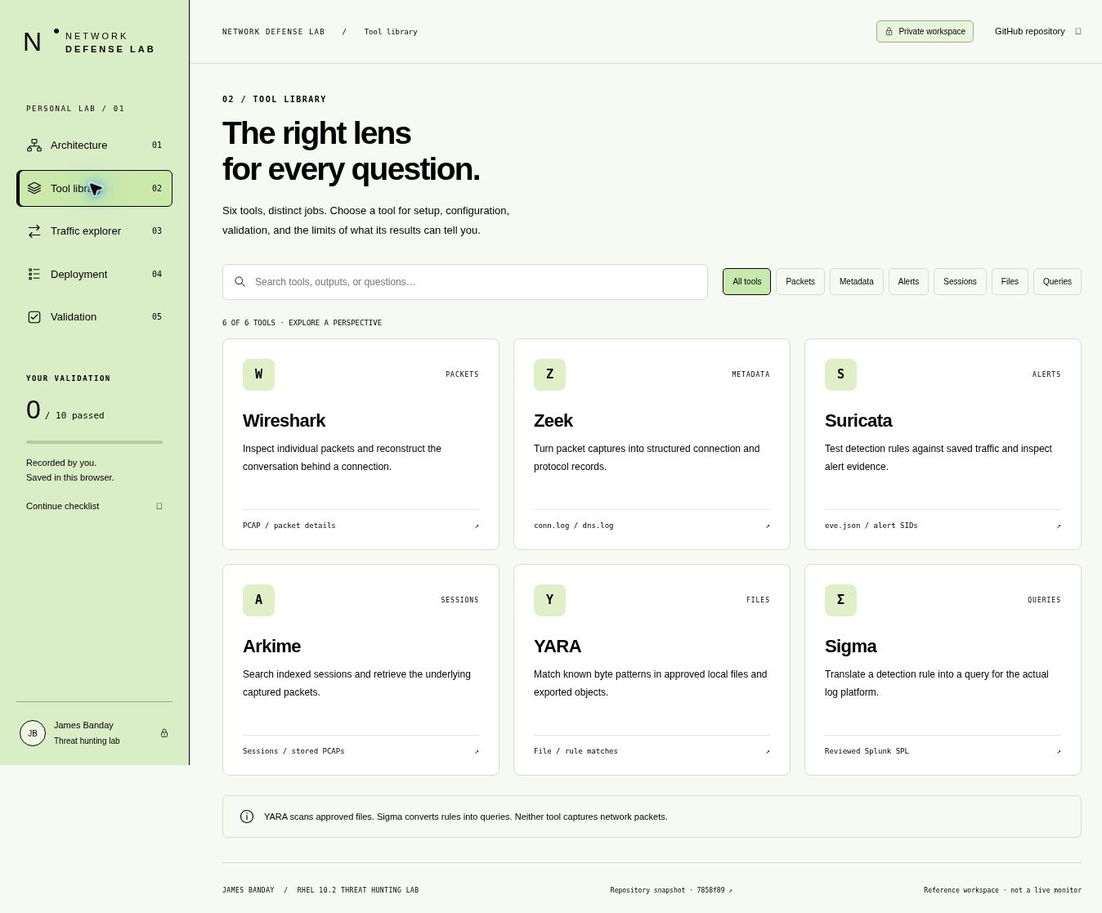
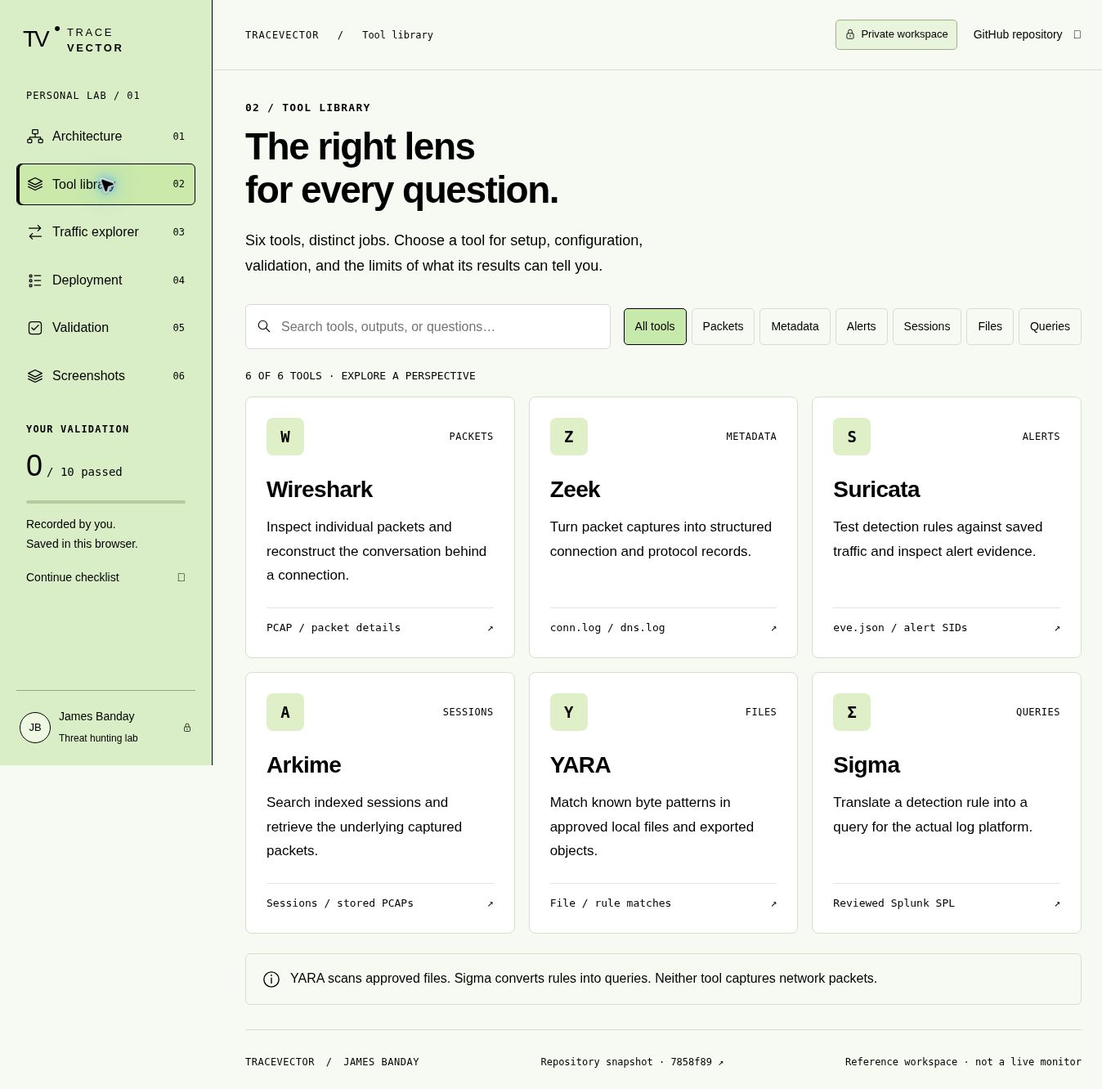
Rename interactive lab to TraceVector and refresh screenshots
Update the repository homepage, interactive lab guide, and website source with TraceVector branding, larger black text, and the light green design. Replace all five screenshots and add an in-site screenshot gallery while preserving private hosting and pending lab validation status.

diff --git a/website/network-defense-lab/styles.css b/website/network-defense-lab/styles.css
@@ -11,3 +11,10 @@
 body{color:#000}body h1,body h2,body h3,body p,body small,body label,body button,body input,body select,body textarea,body summary,body a,body code,body pre,body li,body strong,body .eyebrow,body .mono{color:#000}body svg{color:#000}
 
 .kali-node svg{color:#000}
+
+/* Readable type: larger body text, controls, labels, and topology. */
+body{font-size:18px;line-height:1.6}.sidebar{width:260px;overflow-y:auto;padding:28px 20px 0}.app-shell{margin-left:260px}.brand{font-size:13px;letter-spacing:2.6px}.brand-icon{font-size:28px;letter-spacing:-3px;min-width:42px}.workspace-label{font-size:12px;letter-spacing:1px;margin-top:38px}nav{gap:7px}nav a{font-size:16px;gap:11px;padding:12px}.nav-icon svg{width:20px;height:20px}.nav-number{font-size:12px}.sidebar-progress{margin-top:32px}.sidebar-progress .eyebrow{font-size:12px}.progress-total strong{font-size:36px}.progress-total>span,.sidebar-progress p,.sidebar-progress>a{font-size:14px}.sidebar-bottom{gap:10px}.sidebar-bottom strong{font-size:14px}.sidebar-bottom div>span{font-size:12px}.avatar{width:38px;height:38px;font-size:13px;flex-shrink:0}.topbar{min-height:86px;height:auto;padding-top:18px;padding-bottom:18px}.breadcrumbs{font-size:12px;letter-spacing:1px}.private-badge{font-size:13px;padding:7px 10px}.private-badge svg{width:14px;height:14px}.repo-link{font-size:14px}.top-actions{gap:20px}.eyebrow{font-size:13px;letter-spacing:1.2px}h1,.compact h1{font-size:46px;line-height:1.15;letter-spacing:-1.5px}h2{font-size:26px}h3{font-size:21px}.lead{font-size:18px;line-height:1.75;margin-top:20px}.primary-button,.outline-button{font-size:16px;min-height:48px;padding:12px 18px}.overview-stats{grid-template-columns:1.3fr 1fr 1fr 1.2fr;padding:22px 0}.overview-stats>div{padding:0 17px;gap:12px;min-width:0}.overview-stats strong{font-size:16px;overflow-wrap:anywhere}.overview-stats div div>span{font-size:14px;line-height:1.6}.stat-icon svg{width:25px;height:25px}.section-title h2{font-size:25px}.section-title p{font-size:16px}.subtle-tag{font-size:12px;letter-spacing:.6px;padding:6px 9px}.architecture-grid{grid-template-columns:minmax(0,1fr) 320px;gap:20px}.map-toolbar{font-size:12px;padding:18px}.network-map{height:490px}.map-node{min-height:172px;padding:17px 8px}.map-node strong{font-size:16px;line-height:1.4;letter-spacing:0;overflow-wrap:anywhere}.map-node small{font-size:14px;line-height:1.5}.map-node .node-role{font-size:13px;line-height:1.5;white-space:normal}.node-icon{width:30px;height:30px;margin-bottom:12px}.node-icon svg{width:27px;height:27px}.splunk-mark{font-size:25px}.host-node{min-height:84px;padding:13px 12px;gap:12px;width:48%;left:26%}.host-node small{font-size:12px}.map-caption{font-size:11px;top:31%;letter-spacing:.7px}.map-lower{bottom:20px;gap:10px}.kali-node{padding:11px 10px;gap:8px;flex-wrap:wrap;justify-content:center}.kali-node strong{font-size:13px}.kali-node small{font-size:12px}.kali-node svg{width:18px;height:18px}.gateway-node{font-size:12px;padding:10px}.map-legend{font-size:12px;gap:12px;flex-wrap:wrap;padding:14px 17px;line-height:1.6}.map-legend span:last-child{margin-left:0}.node-detail{padding:24px;min-width:0}.node-detail .eyebrow{font-size:12px;line-height:1.6}.node-detail h3{font-size:21px;line-height:1.4;margin-top:17px}.address-tag{font-size:15px}.node-description{font-size:16px;line-height:1.8}.node-detail .detail-label{font-size:12px;line-height:1.6}.connection-item{font-size:15px;align-items:start;padding:10px 0;flex-wrap:wrap;gap:5px 10px}.connection-item code{font-size:14px;overflow-wrap:anywhere}.node-detail .text-link{font-size:15px;padding-top:22px}.visibility-note{padding:20px 22px;align-items:start}.visibility-note strong{font-size:17px}.visibility-note p{font-size:16px;line-height:1.8;max-width:none}.visibility-note>a{font-size:15px;align-self:center}.note-icon svg{width:25px;height:25px}.lower-grid .eyebrow{font-size:12px}.lower-grid h2{font-size:24px}.lower-grid p{font-size:16px;line-height:1.8;max-width:none}.workflow-pills{gap:8px}.workflow-pills span{font-size:13px;padding:5px 9px}.text-link{font-size:16px;gap:12px}.lower-grid article{padding:25px}.light-note{font-size:16px;line-height:1.8}.light-note svg{min-width:22px;width:22px;height:22px}footer{font-size:12px;line-height:1.7;flex-wrap:wrap;gap:15px}.search-box input{font-size:16px;padding:14px 14px 14px 43px}.search-box svg{top:18px;width:18px;height:18px}.filter-bar{gap:16px}.chip{font-size:14px;padding:10px 13px;min-height:42px}.results-label{font-size:13px;line-height:1.6}.tool-card{padding:25px;min-height:320px}.tool-mark{width:46px;height:46px;font-size:19px}.tool-category{font-size:12px;letter-spacing:.5px}.tool-card h2{font-size:28px}.tool-card p{font-size:17px;line-height:1.75}.tool-output{font-size:13px;line-height:1.6}.select-label{font-size:15px}.select-label select,.status-select{font-size:15px;padding:10px 13px;min-height:44px}.flow-item{padding:21px}.flow-item-top{font-size:17px;line-height:1.6;flex-wrap:wrap}.flow-port{font-size:13px}.flow-item small{font-size:15px;line-height:1.6}.flow-item .kind-tag{font-size:12px;letter-spacing:.3px}.flow-detail{padding:28px;min-height:500px}.flow-detail .eyebrow{font-size:12px;line-height:1.6}.flow-detail h2{font-size:29px}.flow-pair{gap:15px}.flow-pair strong{font-size:16px;overflow-wrap:anywhere}.flow-pair span{font-size:14px}.flow-detail p,.flow-detail ul{font-size:17px;line-height:1.8}.flow-detail h3{font-size:13px}.flow-detail .inline-warning{font-size:15px;line-height:1.8}.deployment-summary{gap:22px}.mini-label{font-size:12px}.deployment-summary strong{font-size:17px}.deployment-summary>span{font-size:14px}.phase summary{padding:24px;gap:20px}.phase-number{font-size:21px}.phase-title strong{font-size:19px;line-height:1.5}.phase-title small{font-size:14px;line-height:1.7}.phase-badge{font-size:13px;padding:5px 9px}.phase-content{padding:25px 28px 28px 75px}.phase-content p,.phase-content ul{font-size:17px;line-height:1.8}.review-toggle{font-size:16px;line-height:1.6}.review-toggle input{width:19px;height:19px}.phase-actions .text-link{font-size:16px}.validation-stat{padding:23px}.validation-stat span{font-size:16px}.validation-stat strong{font-size:32px}.validation-item{padding:23px}.validation-index{font-size:15px;width:28px}.validation-main h3{font-size:18px;line-height:1.6}.validation-main p{font-size:16px;line-height:1.8;max-width:none}.validation-note-toggle,.text-button{font-size:15px}.note-editor label{font-size:14px;line-height:1.7}.note-editor textarea{font-size:16px;line-height:1.7;padding:12px;min-height:100px}.note-meta{font-size:12px;line-height:1.8;gap:15px}.empty-state{font-size:17px}.toast{font-size:16px;max-width:90%;left:calc(50% + 130px)}dialog{max-width:820px;padding:30px}.dialog-tool-heading h2{font-size:32px}.dialog-tool-heading p{font-size:15px}.dialog-description,.tool-stage p{font-size:17px;line-height:1.8}.dialog-tab{font-size:16px}.tool-stage h3{font-size:20px}.code-box pre{font-size:14px;line-height:1.8}.copy-button{font-size:13px;padding:5px 10px}.tool-limit{font-size:16px;line-height:1.8}.dialog-source{font-size:16px;gap:20px;flex-wrap:wrap}.dialog-source .text-link{font-size:16px}.icon-button{width:38px;height:38px;font-size:27px}#reset-dialog{max-width:560px}#reset-dialog p{font-size:17px}.screenshot-grid{display:grid;grid-template-columns:repeat(2,minmax(0,1fr));gap:24px;margin-top:28px}.screenshot-card{background:#fff;border:1px solid var(--line);border-radius:8px;overflow:hidden}.screenshot-card>a{display:block;background:#edf6e3;border-bottom:1px solid var(--line)}.screenshot-card img{width:100%;height:300px;display:block;object-fit:cover;object-position:top}.screenshot-card>div{padding:24px}.screenshot-card h2{font-size:24px}.screenshot-card p{font-size:17px;line-height:1.8;margin:10px 0 17px}.screenshot-card a:focus-visible{outline-offset:-4px}
+@media(min-width:1500px){main{padding:45px 55px 0}.network-map{height:500px}.architecture-grid{grid-template-columns:minmax(0,1fr) 350px}.node-detail{padding:27px}.map-node strong{font-size:17px}.map-node small{font-size:15px}.map-node .node-role{font-size:14px}.host-node small{font-size:13px}.map-caption{font-size:12px}.kali-node strong{font-size:15px}.kali-node small{font-size:13px}.gateway-node{font-size:14px}.map-legend{font-size:13px}.overview-stats strong{font-size:18px}.overview-stats div div>span{font-size:15px}}
+@media(max-width:1250px){.architecture-grid{grid-template-columns:minmax(0,1fr) 290px}.topbar{padding-left:28px;padding-right:28px}.top-actions{gap:12px}.overview-stats{grid-template-columns:1fr 1fr;padding:0}.overview-stats>div{padding:18px;border-bottom:1px solid var(--line)}.overview-stats>div:nth-child(2){border-right:0}.overview-stats>div:nth-last-child(-n+2){border-bottom:0}.tool-grid{grid-template-columns:1fr 1fr}.filter-bar{display:block}.filter-bar .chips{margin-top:16px}.page-heading{align-items:start;flex-wrap:wrap}.page-heading .primary-button{font-size:16px;padding:12px 18px}}
+@media(max-width:1150px){.architecture-grid{grid-template-columns:1fr}.node-detail{display:block}.node-detail .connection-item{display:flex}.map-legend span:last-child{flex-basis:100%}.traffic-grid{grid-template-columns:1fr}.flow-detail{min-height:0}.deployment-summary{flex-wrap:wrap}.deployment-summary>span{width:100%}.sidebar{width:240px}.app-shell{margin-left:240px}.brand{font-size:12px}nav a{font-size:15px;padding:11px}.top-actions .repo-link{font-size:13px}.breadcrumbs{font-size:11px}.topbar{gap:12px}.lower-grid{grid-template-columns:1fr}.validation-row{flex-wrap:wrap}.validation-main{min-width:0;flex-basis:75%}.status-select{margin-left:44px}.phase-content{padding-left:28px}.toast{left:calc(50% + 120px)}}
+@media(max-width:760px){body{font-size:17px}.sidebar{position:relative;width:100%;padding:22px 20px 12px;border-right:0;border-bottom:1px solid #000;overflow:visible}.app-shell{margin-left:0}.brand{font-size:13px}.brand-icon{font-size:28px}.workspace-label,.sidebar-progress,.sidebar-bottom{display:none}nav{display:flex;gap:8px;margin-top:21px;overflow-x:auto}nav a{font-size:14px;padding:10px 12px;gap:8px}.nav-icon svg{width:17px;height:17px}.topbar{padding:16px 20px;min-height:76px;gap:10px;align-items:center}.breadcrumbs{font-size:11px;letter-spacing:.5px}.breadcrumbs span{padding:0 5px}.private-badge{font-size:12px;padding:6px 8px}.repo-link,.top-actions .repo-link{font-size:0}.repo-link span{font-size:18px}.top-actions{gap:9px}.eyebrow{font-size:12px}.page-heading h1,.compact h1{font-size:36px;line-height:1.2}.lead{font-size:17px;line-height:1.8}.page-heading .primary-button,.page-heading>.outline-button{font-size:16px;padding:12px 16px}.overview-stats strong{font-size:14px}.overview-stats div div>span{font-size:13px}.overview-stats>div{padding:16px 12px;align-items:start}.overview-stats .stat-icon svg{width:20px;height:20px}.section-title{flex-wrap:wrap}.section-title h2{font-size:25px}.section-title p{font-size:16px}.subtle-tag{font-size:11px}.map-toolbar{font-size:11px;padding:16px;flex-wrap:wrap}.network-map{height:auto;display:grid;grid-template-columns:1fr;gap:16px;padding:20px 14px;margin:0}.map-lines{display:none}.map-node,.host-node{position:static;top:auto;left:auto;width:100%;min-height:120px;padding:20px}.host-node{min-height:95px;gap:15px;justify-content:center}.map-node strong{font-size:18px}.map-node small{font-size:16px}.host-node small{font-size:14px}.map-node .node-role{font-size:15px;white-space:normal}.map-caption{position:static;font-size:11px;padding:4px 0}.map-lower{position:static;display:flex;flex-direction:column;gap:12px;width:100%}.kali-node{width:100%;padding:15px;gap:9px}.kali-node strong{font-size:16px}.kali-node small{display:block;font-size:14px}.gateway-node{font-size:15px}.map-legend{font-size:12px;gap:10px;padding:16px}.node-detail{padding:23px}.node-detail h3{font-size:22px}.node-description{font-size:17px}.node-detail .eyebrow,.node-detail .detail-label{font-size:12px}.connection-item{font-size:16px}.connection-item code{font-size:14px}.visibility-note{padding:19px;gap:13px}.visibility-note strong{font-size:17px}.visibility-note p{font-size:16px}.lower-grid article{padding:23px}.lower-grid h2{font-size:24px}.lower-grid p{font-size:17px}.workflow-pills span{font-size:14px}.text-link{font-size:16px}.tool-grid{grid-template-columns:1fr}.tool-card{min-height:280px}.tool-card h2{font-size:28px}.tool-card p{font-size:17px}.tool-category{font-size:12px}.tool-output{font-size:13px}.chip{font-size:14px;padding:10px 12px}.results-label{font-size:12px}.light-note{font-size:16px}.flow-item-top{font-size:17px}.flow-item small{font-size:14px}.flow-detail{padding:24px}.flow-detail h2{font-size:27px}.flow-pair{grid-template-columns:1fr;gap:10px}.flow-pair strong{font-size:17px}.flow-pair span{font-size:14px}.flow-pair>span{font-size:21px}.flow-detail p,.flow-detail ul{font-size:17px}.select-label{font-size:15px}.deployment-summary{padding:20px}.deployment-summary strong{font-size:16px}.phase summary{padding:20px 17px;gap:12px;flex-wrap:wrap}.phase-number{font-size:19px;width:24px}.phase-title{flex-basis:75%}.phase-title strong{font-size:18px}.phase-title small{font-size:14px}.phase-badge{font-size:12px;margin-left:36px}.phase-chevron{margin-left:auto}.phase-content{padding:22px}.phase-content p,.phase-content ul{font-size:17px}.phase-actions{gap:16px}.review-toggle{font-size:16px}.validation-stats{grid-template-columns:1fr 1fr;gap:12px}.validation-stat{padding:18px;flex-direction:row;align-items:center}.validation-stat span{font-size:15px}.validation-stat strong{font-size:28px}.validation-toolbar{flex-direction:column;gap:12px}.text-button{font-size:15px}.validation-item{padding:21px 18px}.validation-row{gap:10px;align-items:start}.validation-index{width:23px;font-size:14px}.validation-main{flex-basis:80%}.validation-main h3{font-size:18px}.validation-main p{font-size:16px}.status-select{margin-left:33px;font-size:16px}.validation-note-toggle{font-size:15px}.note-editor{margin-left:0}.note-meta{font-size:12px;flex-wrap:wrap}.toast{left:50%;font-size:15px}footer{font-size:12px;gap:14px;line-height:1.7}dialog{padding:23px}.dialog-tool-heading h2{font-size:29px}.dialog-tabs{gap:15px;flex-wrap:wrap}.dialog-tab{font-size:15px}.dialog-description,.tool-stage p{font-size:17px}.code-box pre{font-size:14px}.copy-button{font-size:13px}.screenshot-grid{grid-template-columns:1fr}.screenshot-card img{height:260px}.screenshot-card p{font-size:17px}.screenshot-card>div{padding:22px}}

diff --git a/website/network-defense-lab/index.html b/website/network-defense-lab/index.html
@@ -4,8 +4,8 @@
   <meta charset="utf-8">
   <meta name="viewport" content="width=device-width,initial-scale=1">
   <meta name="theme-color" content="#202225">
-  <meta name="description" content="A private workspace for exploring James Banday's RHEL, Splunk and Kali network defense lab.">
-  <title>Network Defense Lab | James Banday</title>
+  <meta name="description" content="TraceVector: a private threat hunting and network analysis workspace for James Banday's RHEL, Splunk, and Kali lab.">
+  <title>TraceVector | James Banday</title>
   <link rel="icon" href="icon.svg" type="image/svg+xml">
   <link rel="stylesheet" href="styles.css">
   <script src="data.js" defer></script>
@@ -14,7 +14,7 @@
 <body>
   <a class="skip" href="#main">Skip to workspace</a>
   <aside class="sidebar" aria-label="Workspace navigation">
-    <a class="brand" href="#architecture" aria-label="Network Defense Lab home"><span class="brand-icon">N<span>•</span></span><span>NETWORK<br><strong>DEFENSE LAB</strong></span></a>
+    <a class="brand" href="#architecture" aria-label="TraceVector home"><span class="brand-icon">TV<span>•</span></span><span>TRACE<br><strong>VECTOR</strong></span></a>
     <div class="workspace-label">PERSONAL LAB / 01</div>
     <nav id="navigation">
       <a href="#architecture" data-view="architecture"><span class="nav-icon" data-icon="network"></span>Architecture<span class="nav-number">01</span></a>
@@ -22,13 +22,14 @@
       <a href="#traffic" data-view="traffic"><span class="nav-icon" data-icon="flow"></span>Traffic explorer<span class="nav-number">03</span></a>
       <a href="#deployment" data-view="deployment"><span class="nav-icon" data-icon="steps"></span>Deployment<span class="nav-number">04</span></a>
       <a href="#validation" data-view="validation"><span class="nav-icon" data-icon="check"></span>Validation<span class="nav-number">05</span></a>
+      <a href="#screenshots" data-view="screenshots"><span class="nav-icon" data-icon="layers"></span>Screenshots<span class="nav-number">06</span></a>
     </nav>
     <div class="sidebar-progress"><div class="eyebrow">YOUR VALIDATION</div><div class="progress-total"><strong id="sidebar-passed">0</strong><span>/ <span id="sidebar-total">10</span> passed</span></div><div class="progress-track"><div id="sidebar-bar"></div></div><p>Recorded by you.<br>Saved in this browser.</p><a href="#validation">Continue checklist <span aria-hidden="true">↗</span></a></div>
     <div class="sidebar-bottom"><span class="avatar">JB</span><div><strong>James Banday</strong><span>Threat hunting lab</span></div><span class="lock-mini" data-icon="lock"></span></div>
   </aside>
 
   <div class="app-shell">
-    <header class="topbar"><div class="breadcrumbs">NETWORK DEFENSE LAB <span>/</span> <strong id="breadcrumb">Architecture</strong></div><div class="top-actions"><span class="private-badge"><span data-icon="lock"></span>Private workspace</span><a class="repo-link" id="top-repo" target="_blank" rel="noopener noreferrer">GitHub repository <span aria-hidden="true">↗</span></a></div></header>
+    <header class="topbar"><div class="breadcrumbs">TRACEVECTOR <span>/</span> <strong id="breadcrumb">Architecture</strong></div><div class="top-actions"><span class="private-badge"><span data-icon="lock"></span>Private workspace</span><a class="repo-link" id="top-repo" target="_blank" rel="noopener noreferrer">GitHub repository <span aria-hidden="true">↗</span></a></div></header>
     <main id="main" tabindex="-1">
       <section class="view" id="view-architecture" aria-labelledby="architecture-title">
         <div class="page-heading"><div><div class="eyebrow">RHEL 10.2 / SPLUNK / KALI LINUX</div><h1 id="architecture-title">Know your lab.<br><span>Follow the evidence.</span></h1><p class="lead">Explore the systems, understand the connections, and work<br class="desktop-break"> through each validation with a clear picture of the lab.</p></div><a class="primary-button" href="#deployment">Start the deployment <span aria-hidden="true">↗</span></a></div>
@@ -56,7 +57,8 @@
       <section class="view" id="view-deployment" hidden aria-labelledby="deployment-title"><div class="page-heading compact"><div><div class="eyebrow">04 / DEPLOYMENT SEQUENCE</div><h1 id="deployment-title">Build in order.<br><span>Check as you go.</span></h1><p class="lead">A practical route through the Kali guide. Expand a phase for<br class="desktop-break"> its tasks and acceptance checks, then open the exact source step.</p></div><a id="deployment-source" class="outline-button" target="_blank" rel="noopener noreferrer">Open full runbook ↗</a></div><div class="deployment-summary"><div><span class="mini-label">YOUR REVIEW</span><strong id="phase-progress">0 of 8 phases reviewed</strong></div><div class="progress-track"><div id="phase-bar"></div></div><span>Review progress is separate from validation.</span></div><div class="chips" id="phase-filters" aria-label="Deployment stages"></div><div id="phase-list" class="phase-list"></div></section>
 
       <section class="view" id="view-validation" hidden aria-labelledby="validation-title"><div class="page-heading compact"><div><div class="eyebrow">05 / VALIDATION CHECKLIST</div><h1 id="validation-title">Evidence first.<br><span>Confidence follows.</span></h1><p class="lead">Record what you actually observed. These are your browser-local<br class="desktop-break"> notes, independent of the repository's published test results.</p></div><button class="primary-button" id="export-validation"><span data-icon="download"></span>Export checklist</button></div><div class="validation-stats" id="validation-stats"></div><div class="validation-toolbar"><div class="chips" id="validation-filters" aria-label="Checklist status"></div><button class="text-button" id="reset-validation">Reset checklist</button></div><div id="validation-list"></div><div class="note light-note"><span data-icon="lock"></span><p>Notes stay in this browser and do not change GitHub. Record sanitized observations only; keep packet captures, credentials, and raw logs in approved private storage.</p></div></section>
-      <footer><div>JAMES BANDAY <span> / </span> RHEL 10.2 THREAT HUNTING LAB</div><a id="snapshot-link" target="_blank" rel="noopener noreferrer">Repository snapshot · 7858f89 ↗</a><span>Reference workspace · not a live monitor</span></footer>
+      <section class="view" id="view-screenshots" hidden aria-labelledby="screenshots-title"><div class="page-heading compact"><div><div class="eyebrow">06 / SCREENSHOT GALLERY</div><h1 id="screenshots-title">TraceVector screenshots</h1><p class="lead">Five refreshed reference views with larger black text. Open a screenshot to inspect it at full size.</p></div></div><div class="note light-note"><span data-icon="info"></span><p>These captures show the website interface. They do not establish live sensor coverage or completed lab validation.</p></div><div class="screenshot-grid"><article class="screenshot-card"><a href="screenshots/01-architecture.jpg" target="_blank" rel="noopener noreferrer" aria-label="Open architecture screenshot at full size"><img src="screenshots/01-architecture.jpg" alt="TraceVector architecture view with larger black text and light green surfaces" loading="lazy" width="1348"></a><div><h2>Architecture</h2><p>Select a system to inspect its role, address, and documented connections.</p><a class="text-link" href="screenshots/01-architecture.jpg" target="_blank" rel="noopener noreferrer">Open full screenshot ↗</a></div></article><article class="screenshot-card"><a href="screenshots/02-tool-library.jpg" target="_blank" rel="noopener noreferrer" aria-label="Open tool library screenshot at full size"><img src="screenshots/02-tool-library.jpg" alt="TraceVector tool library view with larger black text and light green surfaces" loading="lazy" width="1348"></a><div><h2>Tool library</h2><p>Explore the roles and validation steps for all six analysis tools.</p><a class="text-link" href="screenshots/02-tool-library.jpg" target="_blank" rel="noopener noreferrer">Open full screenshot ↗</a></div></article><article class="screenshot-card"><a href="screenshots/03-traffic-explorer.jpg" target="_blank" rel="noopener noreferrer" aria-label="Open traffic explorer screenshot at full size"><img src="screenshots/03-traffic-explorer.jpg" alt="TraceVector traffic explorer view with larger black text and light green surfaces" loading="lazy" width="1348"></a><div><h2>Traffic explorer</h2><p>Filter documented paths and inspect the checks for each connection.</p><a class="text-link" href="screenshots/03-traffic-explorer.jpg" target="_blank" rel="noopener noreferrer">Open full screenshot ↗</a></div></article><article class="screenshot-card"><a href="screenshots/04-deployment.jpg" target="_blank" rel="noopener noreferrer" aria-label="Open deployment screenshot at full size"><img src="screenshots/04-deployment.jpg" alt="TraceVector deployment view with larger black text and light green surfaces" loading="lazy" width="1348"></a><div><h2>Deployment</h2><p>Review eight phases of the Kali deployment workflow.</p><a class="text-link" href="screenshots/04-deployment.jpg" target="_blank" rel="noopener noreferrer">Open full screenshot ↗</a></div></article><article class="screenshot-card"><a href="screenshots/05-validation.jpg" target="_blank" rel="noopener noreferrer" aria-label="Open validation screenshot at full size"><img src="screenshots/05-validation.jpg" alt="TraceVector validation view with larger black text and light green surfaces" loading="lazy" width="1348"></a><div><h2>Validation</h2><p>Record observed outcomes; all ten checks are pending in these screenshots.</p><a class="text-link" href="screenshots/05-validation.jpg" target="_blank" rel="noopener noreferrer">Open full screenshot ↗</a></div></article></div></section>
+      <footer><div>TRACEVECTOR <span> / </span> JAMES BANDAY</div><a id="snapshot-link" target="_blank" rel="noopener noreferrer">Repository snapshot · 7858f89 ↗</a><span>Reference workspace · not a live monitor</span></footer>
     </main>
   </div>
 

diff --git a/website/network-defense-lab/app.js b/website/network-defense-lab/app.js
@@ -63,7 +63,7 @@
     $('#phase-bar').style.width = `${100 * reviewed / LAB.phases.length}%`;
     $('#validation-stats').innerHTML = statuses.map(s => `<div class="validation-stat"><span>${s}</span><strong>${c[s]}</strong></div>`).join("");
   }
-  const names = {architecture:"Architecture",tools:"Tool library",traffic:"Traffic explorer",deployment:"Deployment",validation:"Validation"};
+  const names = {architecture:"Architecture",tools:"Tool library",traffic:"Traffic explorer",deployment:"Deployment",validation:"Validation",screenshots:"Screenshots"};
   let currentView;
   function navigate() {
     const candidate = location.hash.slice(1);
@@ -74,7 +74,7 @@
       if (a.dataset.view === view) a.setAttribute('aria-current', 'page'); else a.removeAttribute('aria-current');
     });
     $('#breadcrumb').textContent = names[view];
-    document.title = "Network Defense Lab | James Banday";
+    document.title = "TraceVector | James Banday";
     if (currentView && currentView !== view) { window.scrollTo({top:0,behavior:"instant"}); $('#main').focus({preventScroll:true}); }
     currentView = view;
   }

diff --git a/docs/network-defense/INTERACTIVE_LAB.md b/docs/network-defense/INTERACTIVE_LAB.md
@@ -1,8 +1,8 @@
-# Network Defense Lab | James Banday
+# TraceVector | James Banday
 
 [Open the private website](https://banday-network-workbench.jamesbanday.chatgpt.site) · [Browse website source](../../website/network-defense-lab/) · [Kali deployment runbook](KALI_DEPLOYMENT.md)
 
-The website provides an interactive reference for the RHEL 10.2 Splunk lab. It uses a light green and black palette with black typography. Its content is based on repository commit `7858f891d9d2ea254d0758383951ba352cec7dc1`; the website's footer links to that snapshot.
+TraceVector provides an interactive reference for the RHEL 10.2 Splunk lab. It uses light green surfaces and black typography, with 18px body text on desktop and larger navigation, labels, and architecture cards. Its content is based on repository commit `7858f891d9d2ea254d0758383951ba352cec7dc1`; the website's footer links to that snapshot.
 
 ## Access and scope
 
@@ -19,40 +19,41 @@ The website does not connect to the lab VMs, collect packets, execute its exampl
 | Traffic explorer | Filter documented, offline, and proposed paths by traffic type and protocol; inspect source/destination and acceptance checks. |
 | Deployment | Expand eight phases covering the Kali runbook and separately track which phases you reviewed. |
 | Validation | Track ten checks as Pending, Passed, Blocked, or Failed; add sanitized observations and export the checklist. |
+| Screenshots | Browse refreshed captures of the five working views and open each image at full size. |
 
-The architecture preserves Splunk `.10`, Windows `.20`, IdM `.30`, management `.1`, and NAT gateway `.2` on `172.25.250.0/24`. Kali has a unique verified DHCP lease, not an assumed fixed address. VMnet8 does not automatically mirror peer traffic. The eight-rule lab example and separate 12-rule Suricata regression pack reuse SIDs for different detections and must be tested separately.
+The architecture preserves Splunk `.10`, Windows `.20`, IdM `.30`, management `.1`, and NAT gateway `.2` on `172.25.250.0/24`. Kali must use a unique, verified DHCP lease rather than an assumed fixed address. VMnet8 does not automatically mirror peer traffic. The eight-rule lab example and separate 12-rule Suricata regression pack reuse SIDs for different detections and must be tested separately.
 
 ## Screenshot gallery
 
-These browser screenshots show the local preview of the source used for the privately deployed website. They are interface documentation, not evidence that a Kali workstation, sensor, forwarding path, or detection is operating.
+These refreshed TraceVector browser screenshots show the local preview of the source used for the privately deployed website. They are interface documentation, not evidence that a Kali workstation, sensor, forwarding path, or detection is operating.
 
 ### Figure 1 — Architecture
 
-![Interactive architecture view](../../screenshots/network-defense-lab/01-architecture.jpg)
+![TraceVector interactive architecture view](../../screenshots/network-defense-lab/01-architecture.jpg)
 
 Figure 1: The architecture view shows the three core VMs, management host, NAT gateway, and optional Kali analysis path.
 
 ### Figure 2 — Tool library
 
-![Six-tool reference library](../../screenshots/network-defense-lab/02-tool-library.jpg)
+![TraceVector six-tool reference library](../../screenshots/network-defense-lab/02-tool-library.jpg)
 
 Figure 2: The tool library organizes six analysis tools by their roles, outputs, setup procedures, and validation checks.
 
 ### Figure 3 — Traffic explorer
 
-![Documented traffic paths and verification checks](../../screenshots/network-defense-lab/03-traffic-explorer.jpg)
+![TraceVector documented traffic paths and verification checks](../../screenshots/network-defense-lab/03-traffic-explorer.jpg)
 
 Figure 3: The traffic explorer filters documented connections and explains what to verify for Windows-to-Splunk TLS forwarding.
 
 ### Figure 4 — Deployment
 
-![Eight deployment phases with the first phase expanded](../../screenshots/network-defense-lab/04-deployment.jpg)
+![TraceVector eight deployment phases with the first phase expanded](../../screenshots/network-defense-lab/04-deployment.jpg)
 
 Figure 4: The deployment view presents eight phases with tasks, acceptance checks, source links, and separate review checkboxes.
 
 ### Figure 5 — Validation
 
-![Validation checklist with all ten checks pending](../../screenshots/network-defense-lab/05-validation.jpg)
+![TraceVector validation checklist with all ten checks pending](../../screenshots/network-defense-lab/05-validation.jpg)
 
 Figure 5: The validation view starts with ten pending checks and supports browser-local notes, status filters, and JSON export.
 

diff --git a/README.md b/README.md
@@ -14,13 +14,13 @@ This VMware lab combines Splunk Enterprise on RHEL 10.2, a Windows 11 endpoint, 
 
 [Browse the current start guides](start-here/README.md).
 
-## Network Defense Lab | James Banday
+## TraceVector | James Banday
 
-[Open the private interactive website](https://banday-network-workbench.jamesbanday.chatgpt.site) · [Website guide and five screenshots](docs/network-defense/INTERACTIVE_LAB.md) · [Website source](website/network-defense-lab/)
+[Open the private TraceVector website](https://banday-network-workbench.jamesbanday.chatgpt.site) · [Website guide and five screenshots](docs/network-defense/INTERACTIVE_LAB.md) · [Website source](website/network-defense-lab/)
 
-Explore the `172.25.250.0/24` architecture, six analysis tools, documented traffic paths, deployment phases, and browser-local validation checklist in a light green and black workspace. The hosted website requires the owner’s ChatGPT sign-in; repository visitors can view the source and screenshots here.
+Explore the `172.25.250.0/24` architecture, six analysis tools, documented traffic paths, deployment phases, and browser-local validation checklist in TraceVector, a light green workspace with larger black text. The hosted website requires the owner’s ChatGPT sign-in; repository visitors can view the source and screenshots here.
 
-[![Network Defense Lab architecture preview](screenshots/network-defense-lab/01-architecture.jpg)](docs/network-defense/INTERACTIVE_LAB.md)
+[![TraceVector architecture preview](screenshots/network-defense-lab/01-architecture.jpg)](docs/network-defense/INTERACTIVE_LAB.md)
 
 *Figure 1: The interactive architecture view shows the three core VMs and optional Kali analysis path; it does not demonstrate live deployment or traffic visibility.*
 

diff --git a/website/network-defense-lab/README.md b/website/network-defense-lab/README.md
@@ -1,16 +1,17 @@
-# Network Defense Lab | James Banday
+# TraceVector | James Banday
 
 [Open the private hosted website](https://banday-network-workbench.jamesbanday.chatgpt.site) · [Guide and screenshots](../../docs/network-defense/INTERACTIVE_LAB.md)
 
-This folder contains the buildless static source for the interactive lab reference website. The design uses light green surfaces, black text, and crisp black details.
+This folder contains the buildless static source for the interactive lab reference website. The TraceVector design uses light green surfaces, larger black text, and crisp black details. Desktop body text is 18px; navigation, labels, and diagram cards are sized for easier reading.
 
 | File | Purpose |
 | --- | --- |
-| `index.html` | Five-view interface and dialogs |
-| `styles.css` | Responsive layout, neutral palette, and focus states |
+| `index.html` | Six-view interface, screenshot gallery, and dialogs |
+| `styles.css` | Responsive layout, light green palette, larger black text, and focus states |
 | `data.js` | Reviewed lab context and source links pinned to commit `7858f891d9d2ea254d0758383951ba352cec7dc1` |
 | `app.js` | Navigation, filtering, copy controls, browser-local checklist, and JSON export |
-| `icon.svg` | Website icon |
+| `icon.svg` | TraceVector TV monogram |
+| `screenshots/` | Refreshed browser captures of the five working views |
 
 There are no build dependencies, external scripts, analytics, runtime credentials, or live lab connections. Source files do not include checklist contents from anyone's browser. The repository's MIT license applies.
 

diff --git a/screenshots/README.md b/screenshots/README.md
@@ -29,6 +29,6 @@ These screenshots were supplied in the original ZIP. They may show configuration
 
 ## Interactive website screenshots
 
-The [Network Defense Lab website gallery](../docs/network-defense/INTERACTIVE_LAB.md) contains five browser screenshots of the light green and black reference interface. These were captured from a local preview of the website source, with no private checklist notes and all ten validation checks pending. They show the website interface, not live sensor output or completed lab acceptance.
+The [TraceVector website gallery](../docs/network-defense/INTERACTIVE_LAB.md) contains five refreshed browser screenshots of TraceVector, with light green surfaces and larger black text. These were captured from a local preview of the website source, with no private checklist notes and all ten validation checks pending. They show the website interface, not live sensor output or completed lab acceptance.
 
 [Browse the website screenshots](network-defense-lab/).
